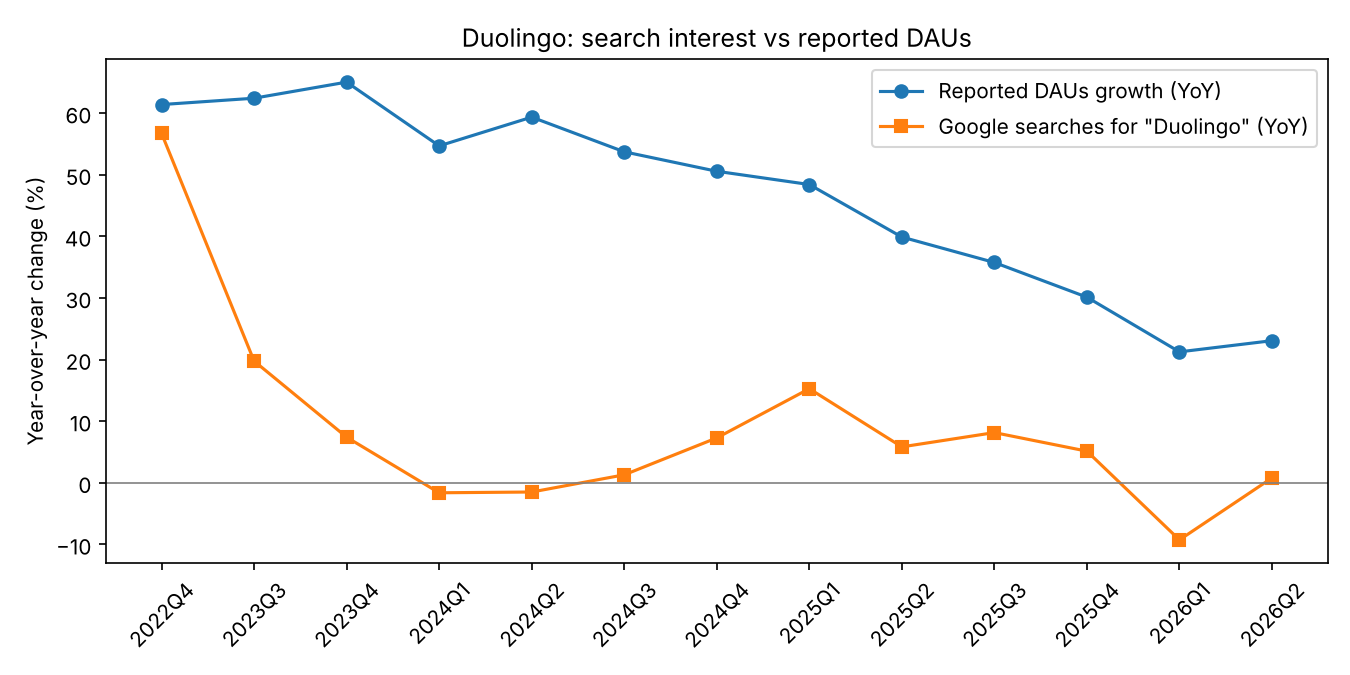
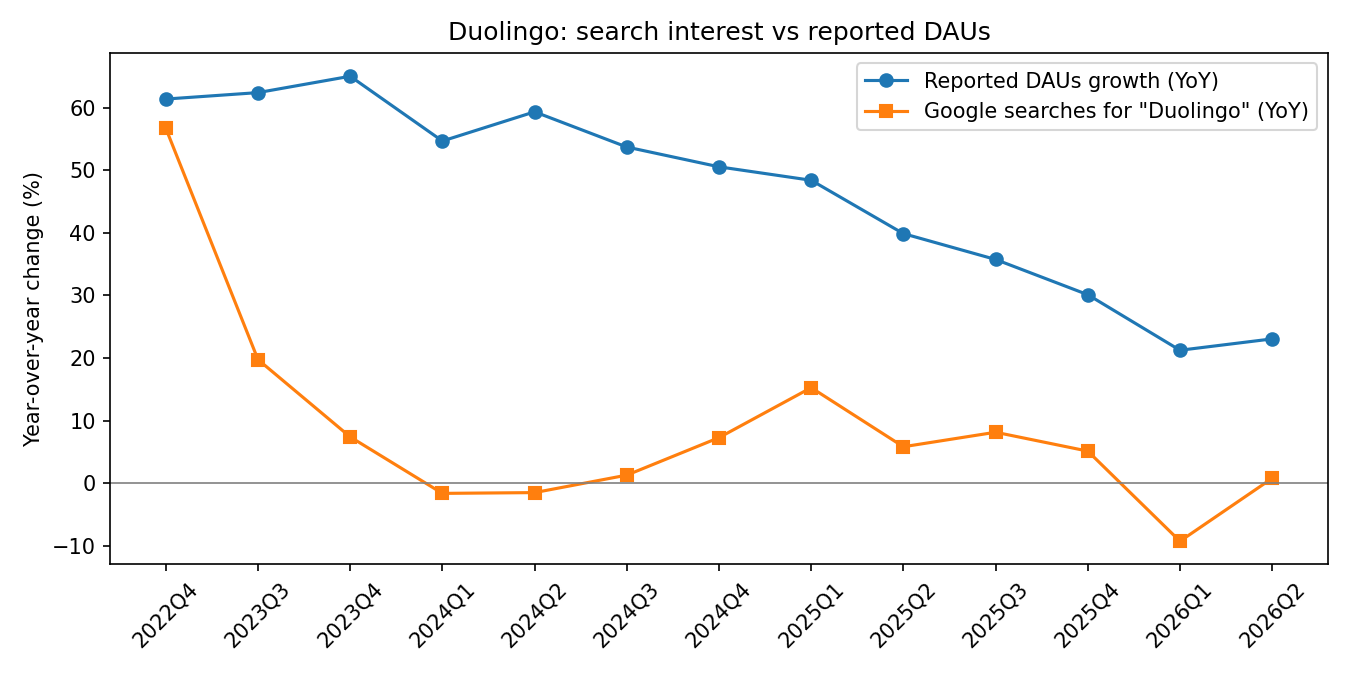
Add Airbnb search data and results

diff --git a/outputs/airbnb/results.md b/outputs/airbnb/results.md
@@ -1,0 +1,30 @@
+# Airbnb (ABNB): search interest vs nights and experiences booked
+
+- Quarters with both series (YoY): 15 (2022Q4 to 2026Q2)
+- Correlation of YoY growth, search vs Nights booked: 0.71
+- Out-of-sample quarters tested: 9
+- Mean absolute error, naive benchmark: 1.87M
+- Mean absolute error, search-change model: 1.70M (-9% vs benchmark)
+- Mean absolute error, search-level model: 2.87M (+53% vs benchmark)
+- Search-change model called acceleration vs deceleration correctly: 78% of quarters
+
+## Walk-forward detail
+
+| quarter   |   actual |   naive |   change_model |   level_model | actual_yoy   | naive_yoy   | change_yoy   | level_yoy   |
+|:----------|---------:|--------:|---------------:|--------------:|:-------------|:------------|:-------------|:------------|
+| 2024Q2    |    125.1 |   126   |          127.1 |         131.3 | 8.7%         | 9.5%        | 10.4%        | 14.1%       |
+| 2024Q3    |    122.8 |   123   |          121.6 |         125.8 | 8.5%         | 8.7%        | 7.4%         | 11.1%       |
+| 2024Q4    |    111   |   107.2 |          107.7 |         110.4 | 12.3%        | 8.5%        | 9.0%         | 11.7%       |
+| 2025Q1    |    143.1 |   149   |          146.3 |         144.1 | 7.9%         | 12.3%       | 10.3%        | 8.7%        |
+| 2025Q2    |    134.4 |   135   |          134.7 |         135.3 | 7.4%         | 7.9%        | 7.7%         | 8.1%        |
+| 2025Q3    |    133.6 |   131.9 |          135.8 |         138.3 | 8.8%         | 7.4%        | 10.5%        | 12.6%       |
+| 2025Q4    |    121.9 |   120.8 |          122.1 |         126.7 | 9.8%         | 8.8%        | 10.0%        | 14.1%       |
+| 2026Q1    |    156.2 |   157.2 |          155.4 |         160   | 9.2%         | 9.8%        | 8.6%         | 11.8%       |
+| 2026Q2    |    148.3 |   146.7 |          146   |         149.1 | 10.3%        | 9.2%        | 8.6%         | 10.9%       |
+
+## Nowcast for 2026Q3 (not yet reported)
+
+- Search interest YoY: -12.6%
+- Naive benchmark: 147.4M (10.3% YoY)
+- Search-change model: 142.0M (6.3% YoY)
+- Search-level model: 140.1M (4.9% YoY)

diff --git a/outputs/summary.md b/outputs/summary.md
@@ -1,0 +1,8 @@
+# Summary across companies
+
+Negative % means lower error than the naive benchmark (better).
+
+| Company   | KPI           |   Quarters tested |   YoY correlation | Search-change vs benchmark   | Search-level vs benchmark   | Beats benchmark?   |
+|:----------|:--------------|------------------:|------------------:|:-----------------------------|:----------------------------|:-------------------|
+| Airbnb    | Nights booked |                 9 |              0.71 | -9%                          | +53%                        | Yes                |
+| Duolingo  | DAUs          |                 7 |              0.45 | +4%                          | +272%                       | No                 |
